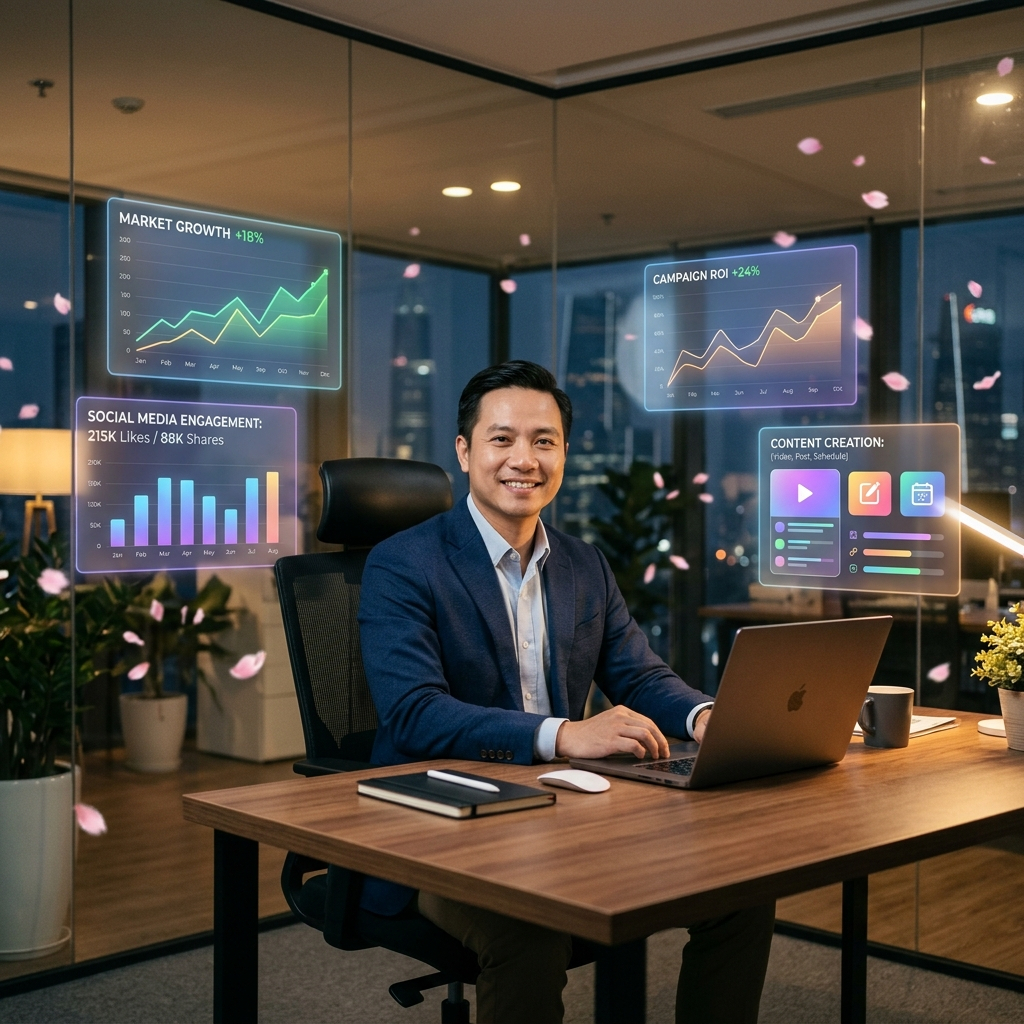
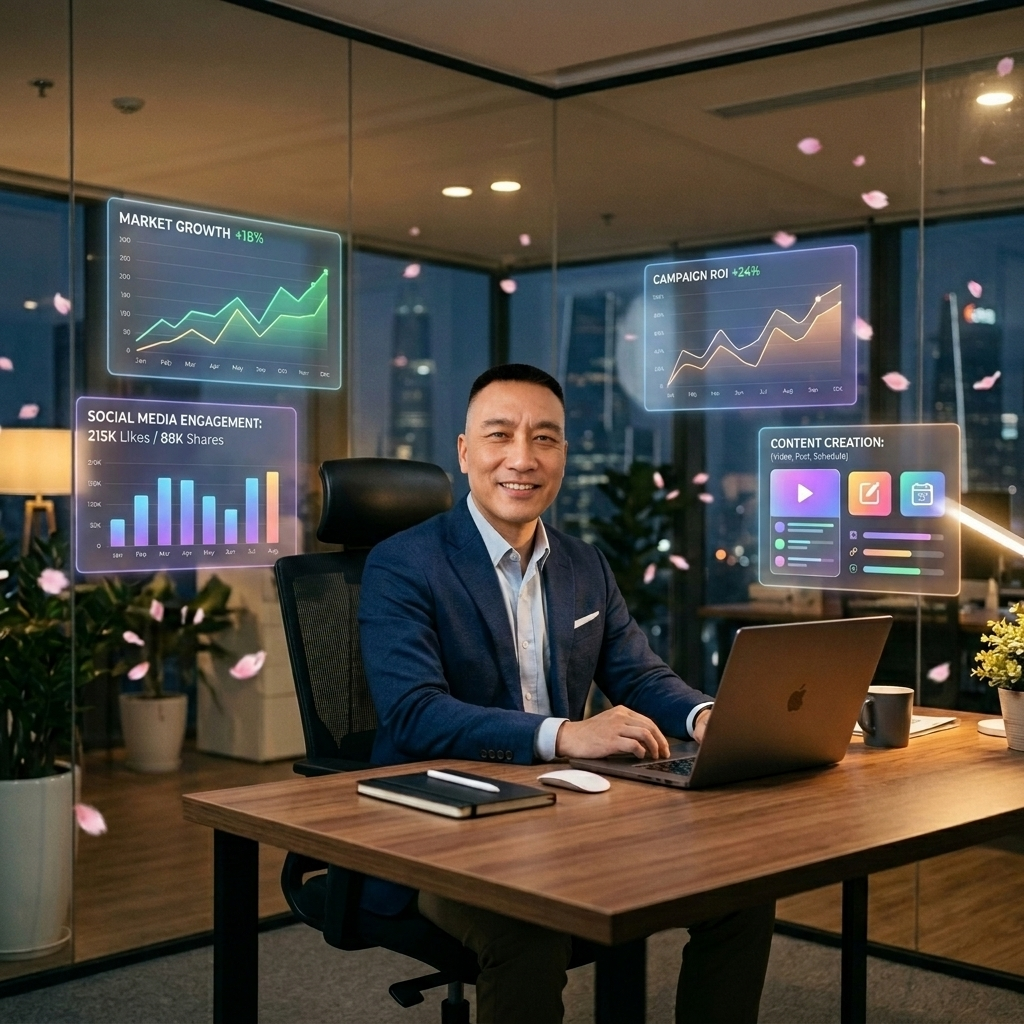
Thay the khuon mat anh vao anh hero phat trien AI

Changed region(s): [[0.4375, 0.3438, 0.5625, 0.5312], [0.9375, 0.5938, 1.0, 0.6562], [0.5625, 0.5938, 0.5938, 0.625]]

diff --git a/landing.html b/landing.html
@@ -78,7 +78,7 @@
             </div>
             <div class="hero-visual" data-animate="fade-left" data-delay="200">
                 <div class="hero-image-wrapper">
-                    <img src="portrait.png" alt="Vũ Bảo Trung - TrungSteel AI" class="hero-image" loading="eager">
+                    <img src="hero-trungsteel-ai.png" alt="Vũ Bảo Trung - TrungSteel AI" class="hero-image" loading="eager">
                     <div class="floating-card card-1">
                         <span class="card-icon">📈</span>
                         <span class="card-text">Doanh thu +340%</span>